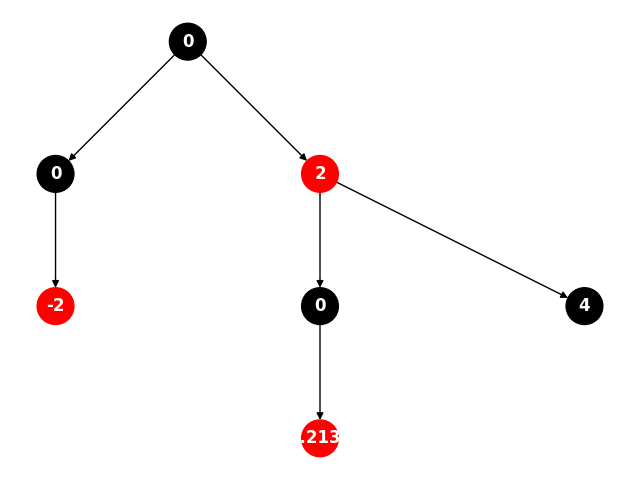
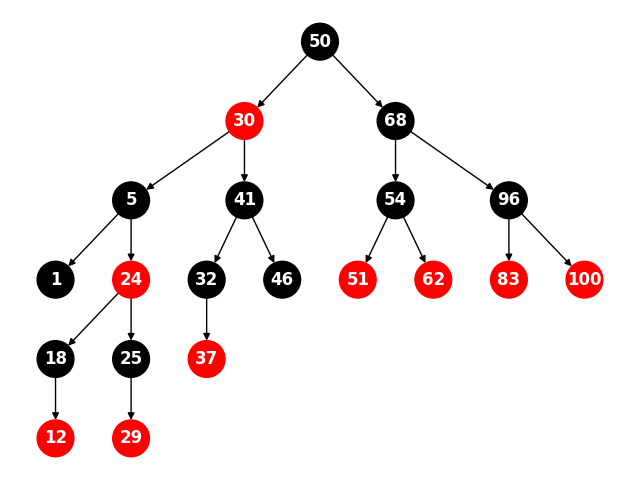
agregue un endpoint para generar una cantidad de nodos aleatorios, y otro endpoint para eliminar el arbol

diff --git a/backend/red_black_tree.py b/backend/red_black_tree.py
@@ -111,6 +111,113 @@ class RedBlackTree:
 
         self.insert_fixup(node)
 
+    def transplant(self, u, v):
+        """Reemplaza el subárbol con raíz en u por el subárbol con raíz en v"""
+        if u.parent == None:
+            self.root = v  # Si u es la raíz, entonces v se convierte en la nueva raíz
+        elif u == u.parent.left:
+            u.parent.left = v
+        else:
+            u.parent.right = v
+        v.parent = u.parent
+
+    def delete_fixup(self, x):
+        """Repara el árbol después de la eliminación de un nodo"""
+        while x != self.root and x.color == 'black':
+            if x == x.parent.left:
+                w = x.parent.right
+                if w.color == 'red':  # Caso 1: El hermano es rojo
+                    w.color = 'black'
+                    x.parent.color = 'red'
+                    self.rotate_left(x.parent)
+                    w = x.parent.right
+                if w.left.color == 'black' and w.right.color == 'black':  # Caso 2: El hermano es negro y ambos hijos son negros
+                    w.color = 'red'
+                    x = x.parent
+                else:
+                    if w.right.color == 'black':  # Caso 3: El hermano es negro y el hijo derecho es negro
+                        w.left.color = 'black'
+                        w.color = 'red'
+                        self.rotate_right(w)
+                        w = x.parent.right
+                    w.color = x.parent.color
+                    x.parent.color = 'black'
+                    w.right.color = 'black'
+                    self.rotate_left(x.parent)
+                    x = self.root
+            else:
+                w = x.parent.left
+                if w.color == 'red':
+                    w.color = 'black'
+                    x.parent.color = 'red'
+                    self.rotate_right(x.parent)
+                    w = x.parent.left
+                if w.right.color == 'black' and w.left.color == 'black':
+                    w.color = 'red'
+                    x = x.parent
+                else:
+                    if w.left.color == 'black':
+                        w.right.color = 'black'
+                        w.color = 'red'
+                        self.rotate_left(w)
+                        w = x.parent.left
+                    w.color = x.parent.color
+                    x.parent.color = 'black'
+                    w.left.color = 'black'
+                    self.rotate_right(x.parent)
+                    x = self.root
+        x.color = 'black'
+
+    def delete(self, key):
+        """Elimina el nodo con el valor `key` del árbol"""
+        z = self.root
+        while z != self.TNULL:
+            if z.key == key:
+                break
+            elif key < z.key:
+                z = z.left
+            else:
+                z = z.right
+        
+        if z == self.TNULL:  # Si el nodo no existe
+            print("El nodo con valor {} no fue encontrado.".format(key))
+            return
+        
+        y = z
+        y_original_color = y.color
+        if z.left == self.TNULL:
+            x = z.right
+            self.transplant(z, z.right)
+        elif z.right == self.TNULL:
+            x = z.left
+            self.transplant(z, z.left)
+        else:
+            y = self.minimum(z.right)
+            y_original_color = y.color
+            x = y.right
+            if y.parent == z:
+                x.parent = y
+            else:
+                self.transplant(y, y.right)
+                y.right = z.right
+                y.right.parent = y
+            self.transplant(z, y)
+            y.left = z.left
+            y.left.parent = y
+            y.color = z.color
+
+        if y_original_color == 'black':
+            self.delete_fixup(x)
+
+    def minimum(self, node):
+        """Devuelve el nodo con el valor mínimo en el subárbol de `node`"""
+        while node.left != self.TNULL:
+            node = node.left
+        return node
+
+    def clear(self):
+        self.root = self.TNULL
+
     def inorder_helper(self, node):
         if node != self.TNULL:
             self.inorder_helper(node.left)
@@ -120,6 +227,7 @@ class RedBlackTree:
     def print_tree(self):
         self.inorder_helper(self.root)
         print()
+
 
 # Test de la clase RedBlackTree
 if __name__ == "__main__":

diff --git a/backend/server.py b/backend/server.py
@@ -5,6 +5,7 @@ import networkx as nx
 import matplotlib
 import matplotlib.pyplot as plt
 from red_black_tree import RedBlackTree  # Asegúrate de tener esta clase definida
+import random
 
 app = Flask(__name__)
 CORS(app)
@@ -19,17 +20,8 @@ matplotlib.use('Agg')
 
 rbt = RedBlackTree()
 
-@app.route('/api/v1/rbtree', methods=['POST'])
 def process_tree():
-    try:
-        # recibe datos del arbol, dado keys
-        data = request.json
-        keys = data.get("keys", [])
-
-        for key in keys:
-            rbt.insert(key)
-
-        # Crear el grafo visual del árbol
+    # Crear el grafo visual del árbol
         G = nx.DiGraph()
         def add_edges(node):
             if node is not None and node != rbt.TNULL:
@@ -62,6 +54,67 @@ def process_tree():
         output_path = "static/rbtree.png"
         plt.savefig(output_path)
         plt.close()
+
+@app.route('/api/v1/rbtree/keys', methods=['POST'])
+def insert_keys():
+    try:
+        # recibe datos del arbol, dado keys
+        data = request.json
+        keys = data.get("keys", [])
+
+        for key in keys:
+            rbt.insert(key)
+
+        process_tree()
+
+        return jsonify({"imageUrl": f"http://localhost:5000/static/rbtree.png"}), 200
+
+    except Exception as e:
+        return jsonify({"error": str(e)}), 500
+
+@app.route('/api/v1/rbtree/keys', methods=['DELETE'])
+def delete_keys():
+    try:
+        # recibe datos del arbol, dado keys
+        data = request.json
+        keys = data.get("keys", [])
+
+        for key in keys:
+            rbt.delete(key)
+
+        process_tree()
+
+        return jsonify({"imageUrl": f"http://localhost:5000/static/rbtree.png"}), 200
+
+    except Exception as e:
+        return jsonify({"error": str(e)}), 500
+
+@app.route('/api/v1/rbtree/keys/random', methods=['POST'])
+def insert_random_keys():
+    try:
+        # recibe datos del arbol, dado keys
+        data = request.json
+        min = data.get("keys", 0)
+        max = data.get("max", 100)
+        num = data.get("num", 1)
+
+        for _ in range(num):
+            rbt.insert(random.randint(min, max))
+
+        process_tree()
+
+        return jsonify({"imageUrl": f"http://localhost:5000/static/rbtree.png"}), 200
+
+    except Exception as e:
+        return jsonify({"error": str(e)}), 500
+    
+@app.route('/api/v1/rbtree/clear', methods=['POST'])
+def clear_tree():
+    try:
+        # recibe datos del arbol, dado keys
+        rbt.clear()
+
+        process_tree()
 
         return jsonify({"imageUrl": f"http://localhost:5000/static/rbtree.png"}), 200
 
